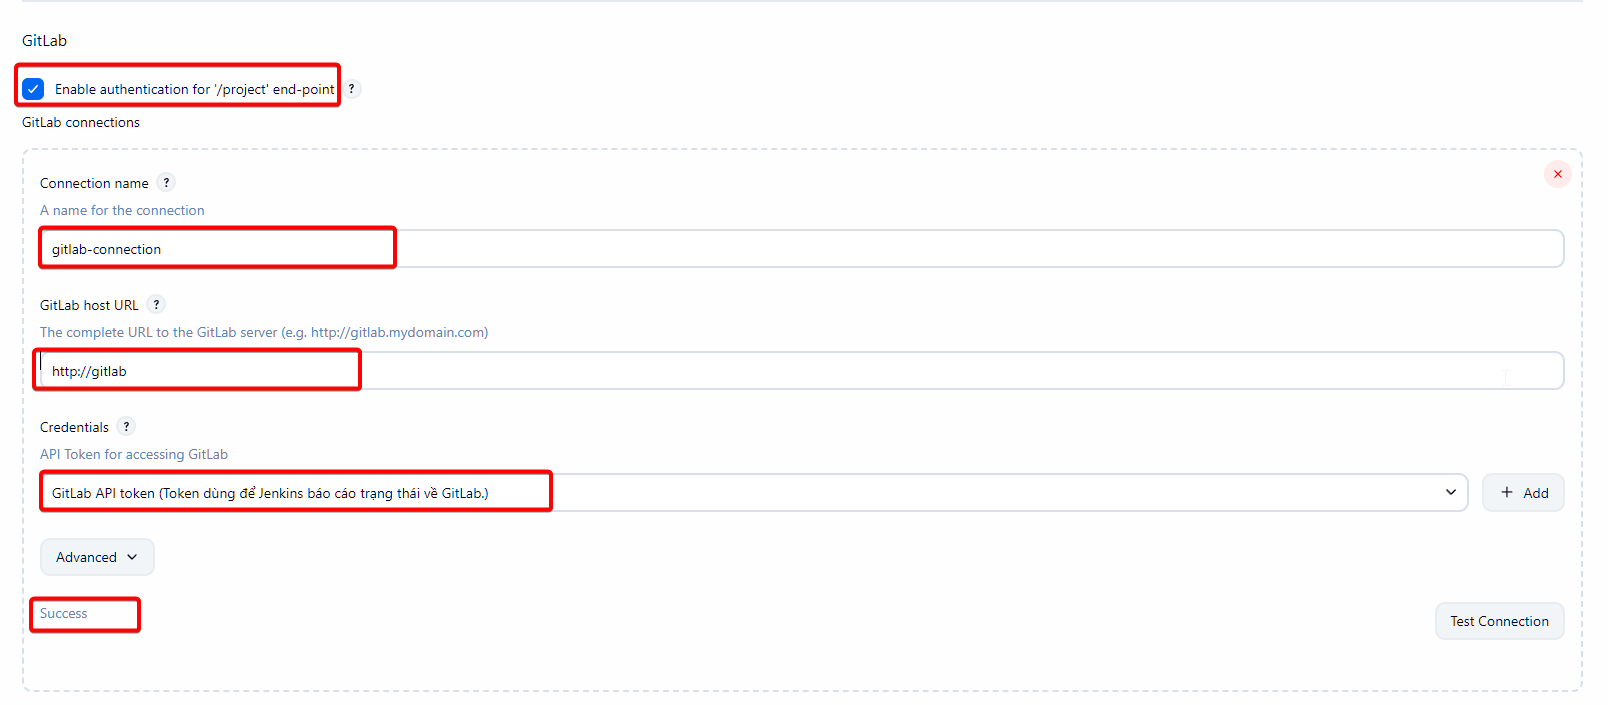
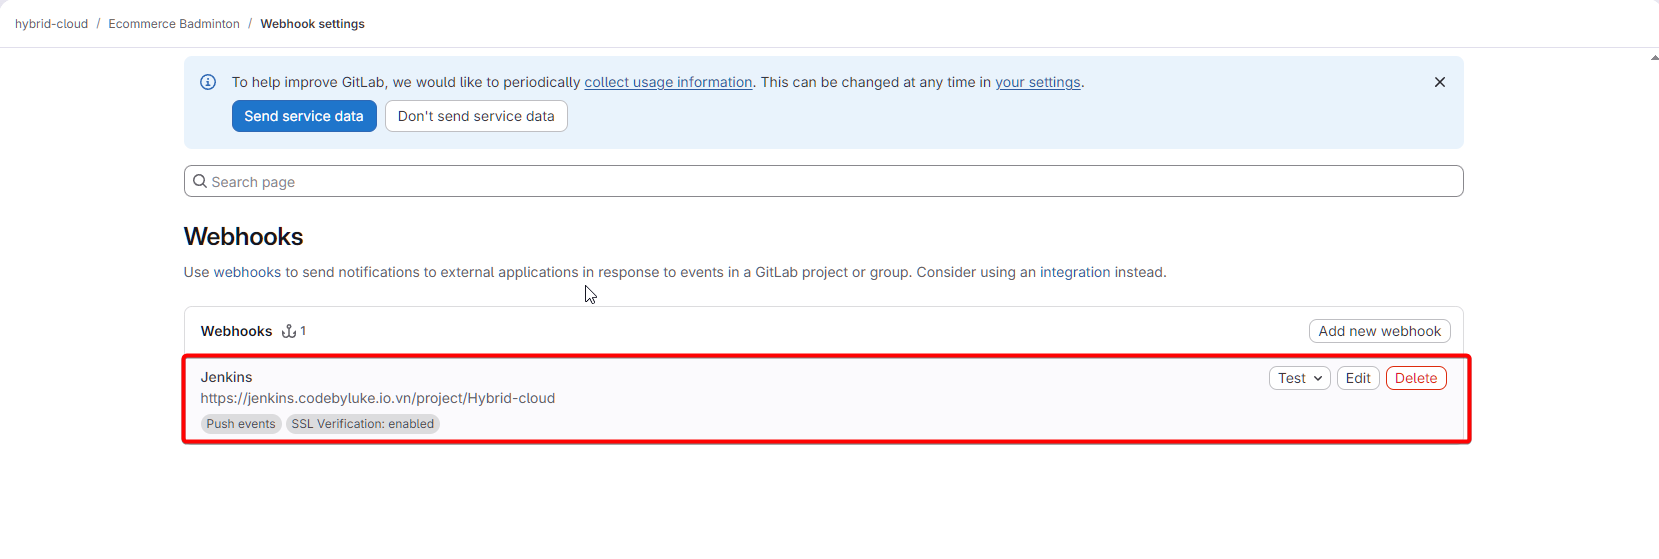
Update

diff --git a/docs/DevOps/Practices/Hybrid Cloud/09-ConnectJenkinsWithGitlab.md b/docs/DevOps/Practices/Hybrid Cloud/09-ConnectJenkinsWithGitlab.md
@@ -2,7 +2,7 @@
 
 Ở [bài trước](08-ConfigCredentialsJenkins.md), chúng ta đã cài đặt `credentials` hoàn chỉnh cho bài lab. Ở bài viết này chúng ta sẽ sử dụng để kết nối với **Gitlab**
 
-![alt text](./images/day09/image.png)
+![alt text](./images/day09/image-0.png)
 
 ## Kích hoạt kết nối trong System Configuration
 
@@ -18,7 +18,91 @@
 - 🔴 Failed: Kiểm tra lại mạng hoặc loại Token.
 - 🟢 Success: Chúc mừng, Jenkins và GitLab đã "bắt tay" thành công!
 
-![Gitlab integration](./images/day09/image-9.png)
+![Gitlab integration](./images/day09/image-14.png)
+
+## Khởi tạo Gitlab group và repository
+
+![gitlab repositories](./images/day09/image.png)
+
+Theo như thiết kế ta sẽ có 2 repo trong gitlab như sau:
+
+- **Project:** Chứa source code của dự án
+- **Manifest:** Chứa config của dự án
+
+:::note[Repository demo]
+Với mục đích demo, bạn có thể sử dụng project mẫu sau:
+
+- [Project repository](https://github.com/LocNguyenPV/Ecommerce-badminton)
+- [Manifest repository](https://github.com/LocNguyenPV/hybrid-cloud-manifest)
+
+:::
+
+Cho gần với thực tế hơn, ta sẽ tạo một group `hybrid-cloud` trên Gitlab để chứa 2 `repo` trên
+
+![gitlab group](./images/day09/image-1.png)
+
+Sau khi khởi tạo và import 2 `repo` vào group sẽ như hình
+
+![gitlab group project](./images/day09/image-2.png)
+
+## Tích hợp Gitlab repository vào Jenkins
+
+Tiếp theo ta sẽ khởi tạo một pipeline trong Jenkins:
+
+1. Tạo pipeline với tên `Hybrid cloud`, chọn `item type` là `Pipeline` sau đó nhấn `OK`
+
+![Create pipeline](./images/day09/image-3.png)
+
+2. Chọn `gitlab-connection` (hoặc tên bạn đã cấu hình ở [phần trên](#kích-hoạt-kết-nối-trong-system-configuration))
+
+![Config pipeline 1](./images/day09/image-4.png)
+
+3. Ở phần `Triggers`, ta chọn `Build when a pushed to Gitlab` và lưu lại đường dẫn webhook URL để cấu hình sau
+
+![Config pipeline 2](./images/day09/image-5.png)
+
+:::note[Secret token]
+Ngoài ra, ta cũng cần lấy `secret token` cho cấu hình webhook
+![secret token](./images/day09/image-10.png)
+:::
+
+4. Ở phần `Pipeline`, ta chọn `Pipeline script from SCM` và cấu hình như sau:
+   - **SCM:** Chọn `git`
+   - **Repository URL:** Lấy URL repo của project (không phải Manifest)
+   - **Credentials:** Chọn credential đã tạo ở [phần 2 của bài trước](./08-ConfigCredentialsJenkins.md#bước-2-tạo-credential-cho-pipeline-clonepush-code)
+   - **Branch Specifier:** Sửa lại `main` hoặc branch tương ứng (Jenkins sẽ lấy `Jenkinfile` từ branch cấu hình)
+
+![Config pipeline 3](./images/day09/image-6.png)
+
+5. Sau khi cấu hình xong pipeline, ở trang chủ sẽ như sau
+
+![Finish](./images/day09/image-7.png)
+
+Ta đã hoàn tất cấu hình bên Jenkins, tiếp theo ta cần phải cấu hình webhook để trigger build pipeline khi push / merge commit vào branch `main`
+
+## Cấu hình Webhook bên Gitlab
+
+1. Truy cập vào project repo trên gitlab
+
+![webhook create](./images/day09/image-8.png)
+
+2. Cấu hình webhook như sau:
+   - **Name:** `Jenkins`
+   - **Webhook URL:** Webhook URL đã lưu
+   - **Secret token:** Secret token đã lưu
+
+![webhook config](./images/day09/image-11.png)
+
+3. Sau khi tạo sẽ như hình
+
+![result](./images/day09/image-9.png)
+
+:::tip[Kiểm thử webhook]
+Có thể nhấn nút `Test` với `Push event` để kiểm thử
+![alt text](./images/day09/image-12.png)
+Nếu Jenkins trigger build pipeline thì thành công
+![alt text](./images/day09/image-13.png)
+:::
 
 ---
 
@@ -28,5 +112,6 @@
 
 1. **QA User:** Chỉ làm đúng việc, không thể phá hoại.
 2. **Credentials:** Được tổ chức khoa học, phân tách rõ ràng giữa mục đích quản trị hệ thống và thực thi pipeline.
+3. **Gitlab connection:** Trigger pipeline thông qua webhook
 
-Hệ thống đã sẵn sàng. Ở bài tiếp theo, chúng ta sẽ bắt tay vào viết **Jenkinsfile** đầu tiên để hiện thực hóa quy trình CI/CD!
+Hệ thống đã hoàn thành 70%. Ở [bài tiếp theo](./10-InstallArgoCD.md), chúng ta sẽ bắt đầu cấu hình **ArgoCD**!

diff --git a/docs/DevOps/Practices/Hybrid Cloud/08-ConfigCredentialsJenkins.md b/docs/DevOps/Practices/Hybrid Cloud/08-ConfigCredentialsJenkins.md
@@ -132,4 +132,4 @@ Cách này chỉ dùng cho mục đích bài lab, không nên sử dụng trong 
 Sau khi cấu hình xong, phần `credentials` của `Hybrid cloud` sẽ như hình
 ![domain creds](./images/day08/image-8.png)
 
-Ở bài tiếp theo, ta sẽ sử dụng credential để kết nối Gitlab một cách chuẩn chỉnh.
+Ở [bài tiếp theo](./09-ConnectJenkinsWithGitlab.md), ta sẽ sử dụng credential để kết nối Gitlab một cách chuẩn chỉnh.
